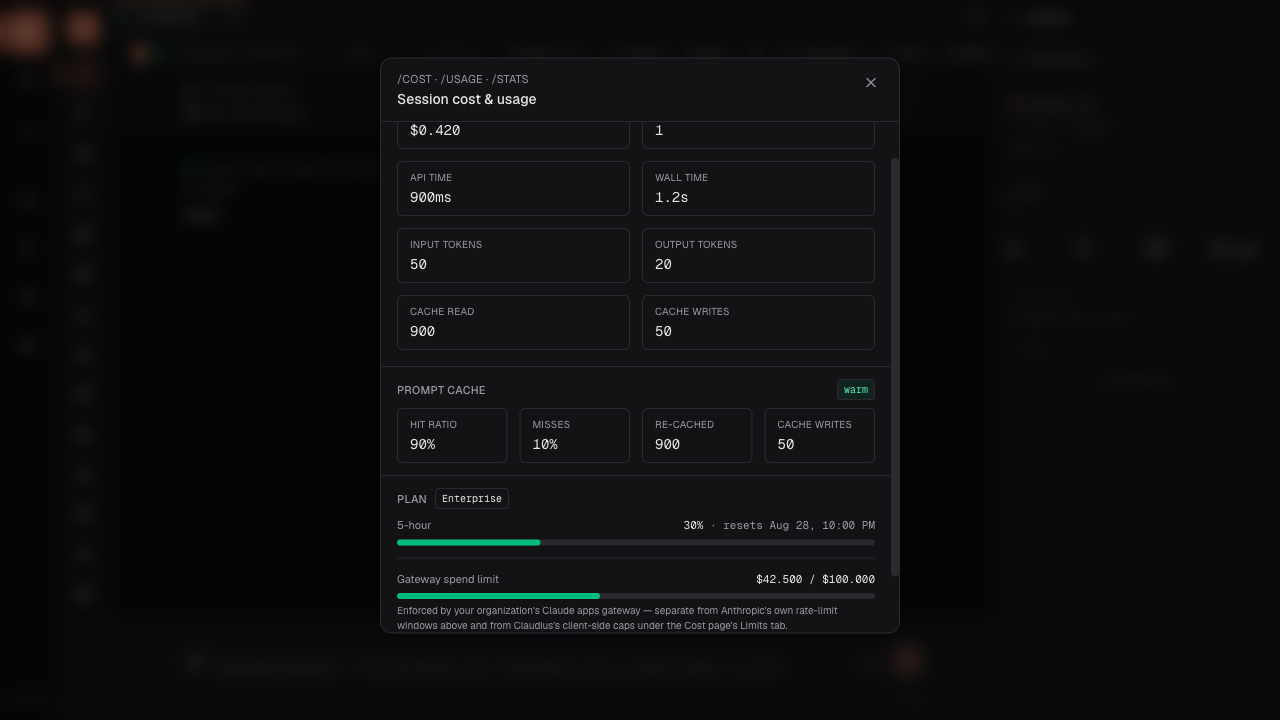
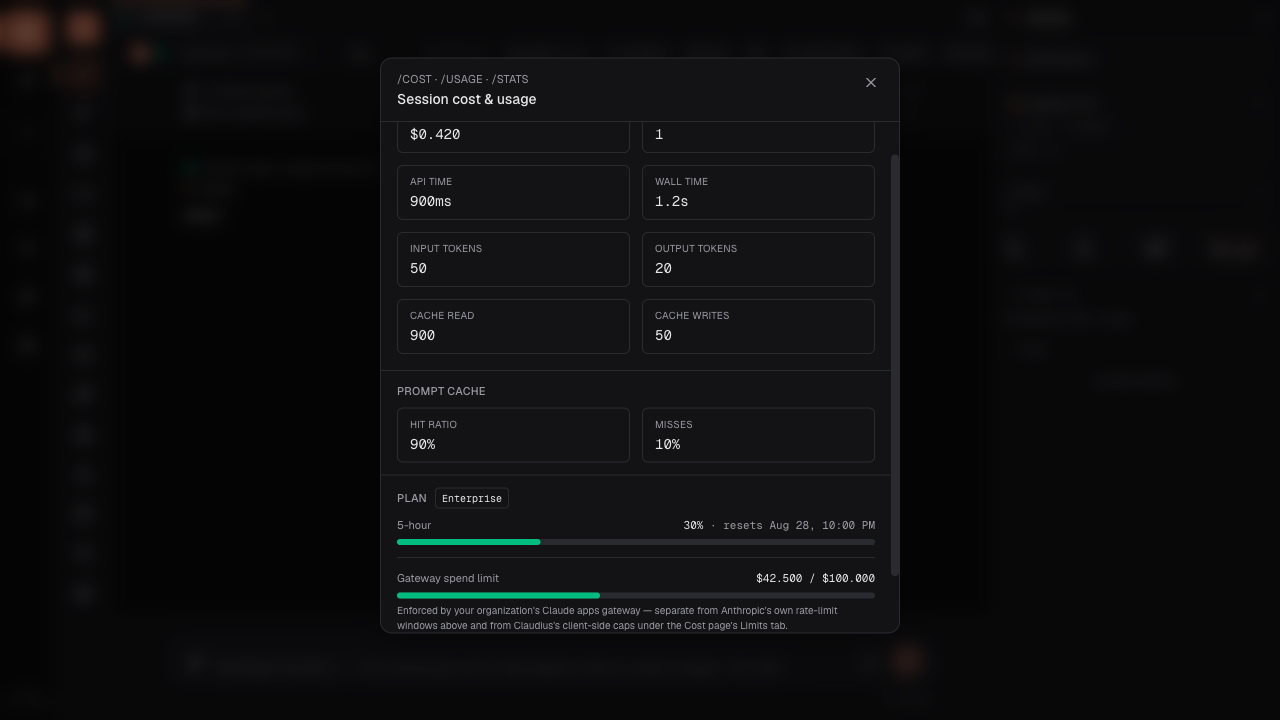
fix(cc-parity): address adversarial UX review of 2.1.251 cost-overlay work
Three fixes from an adversarial UX-fit pass on the prompt-cache line +
gateway spend-limit bar:
- Prompt cache section no longer repeats the raw cache-read/cache-write
  token counts already shown in the stat grid above — only the two
  derived ratios (hit/miss) are new information.
- Dropped the warm/cold badge: derived from session-cumulative totals,
  it would stay pinned to "warm" after one cache hit, reading as live
  status when it isn't. The hit-ratio % already conveys this honestly.
- Hoisted spendLimit to a sibling of rateLimits/modelScoped on
  PlanUsageEvent instead of nesting it inside rateLimits, matching the
  precedent modelScoped already set for "different shape" fields and
  removing the special-case filter that nesting required in CostOverlay.

diff --git a/components/overlays/CostOverlay.tsx b/components/overlays/CostOverlay.tsx
@@ -91,7 +91,7 @@ export function CostOverlay({ usage, model, planUsage, onClose }: Props) {
         cacheCreationInputTokens: usage.cacheCreationInputTokens,
       })
     : null;
-  const spendLimit = planUsage?.rateLimits?.spendLimit ?? null;
+  const spendLimit = planUsage?.spendLimit ?? null;
   const windows =
     planUsage?.rateLimitsAvailable && planUsage.rateLimits
       ? (
@@ -99,11 +99,7 @@ export function CostOverlay({ usage, model, planUsage, onClose }: Props) {
             string,
             { utilization: number | null; resetsAt: string | null } | null | undefined,
           ][]
-          // `spendLimit` shares the rateLimits object but has a different
-          // shape ({limitUsd,usedUsd,currency} rather than {utilization,
-          // resetsAt}) and its own dedicated $ rendering below — exclude it
-          // from the generic percentage-window list.
-        ).filter(([k, v]) => k !== "spendLimit" && v !== null && v !== undefined)
+        ).filter(([, v]) => v !== null && v !== undefined)
       : [];
 
   return (
@@ -119,28 +115,27 @@ export function CostOverlay({ usage, model, planUsage, onClose }: Props) {
         <Stat label="Cache writes" value={usage ? fmtTokens(usage.cacheCreationInputTokens) : "—"} />
       </div>
 
-      {/* CC parity 2.1.251: prompt-cache line ("/cost" hit ratio, misses,
-          tokens re-cached, warm/cold). Derived client-side from the same
-          cache token totals shown above — see lib/shared/prompt-cache.ts
-          for why there's no new server field behind this. */}
+      {/* CC parity 2.1.251: prompt-cache line ("/cost" hit ratio / misses).
+          Derived client-side from the same cache token totals shown in the
+          stat grid above (Cache read / Cache writes) — see
+          lib/shared/prompt-cache.ts for why there's no new server field
+          behind this. Deliberately just the two ratios: the raw token
+          counts ("re-cached" == Cache read, cache-write tokens == Cache
+          writes) already have a home in the grid above, so repeating them
+          here would just be the same numbers twice. Also deliberately no
+          warm/cold badge — with only session-cumulative totals available
+          (no per-turn breakdown), "warm" would mean "hit cache at least
+          once, ever, this session" and stay pinned to true past the first
+          hit, which reads as live status but isn't; the hit-ratio % already
+          conveys the same information honestly. */}
       {promptCache && (
         <div data-testid="prompt-cache-section" className="border-t border-[var(--border)] px-4 py-3">
           <div className="mb-2 flex items-center gap-2">
             <span className="text-[11px] font-medium uppercase tracking-wide text-[var(--muted)]">
               Prompt cache
             </span>
-            <span
-              data-testid="prompt-cache-warm-badge"
-              className={`ml-auto rounded border px-1.5 py-0.5 font-mono text-[10px] ${
-                promptCache.warm
-                  ? "border-emerald-500/40 bg-emerald-500/10 text-emerald-300"
-                  : "border-[var(--border)] bg-[var(--panel)] text-[var(--muted)]"
-              }`}
-            >
-              {promptCache.warm ? "warm" : "cold"}
-            </span>
           </div>
-          <div className="grid grid-cols-2 gap-3 text-[11px] sm:grid-cols-4">
+          <div className="grid grid-cols-2 gap-3 text-[11px]">
             <Stat
               label="Hit ratio"
               value={promptCache.hitRatioPct === null ? "—" : `${Math.round(promptCache.hitRatioPct)}%`}
@@ -149,8 +144,6 @@ export function CostOverlay({ usage, model, planUsage, onClose }: Props) {
               label="Misses"
               value={promptCache.missRatioPct === null ? "—" : `${Math.round(promptCache.missRatioPct)}%`}
             />
-            <Stat label="Re-cached" value={fmtTokens(promptCache.tokensRecached)} />
-            <Stat label="Cache writes" value={fmtTokens(promptCache.cacheWriteTokens)} />
           </div>
         </div>
       )}

diff --git a/tests/e2e/cc-parity-2.1.251-cost-overlay-cache-spend.spec.ts b/tests/e2e/cc-parity-2.1.251-cost-overlay-cache-spend.spec.ts
@@ -2,11 +2,14 @@
  * CC 2.1.251 parity — two additions to the "Session cost & usage" overlay
  * (opened via `/cost` · `/usage` · `/stats`, or the status-line cost tile):
  *
- *  1. "Prompt cache" line — hit ratio, misses, tokens re-cached, warm/cold.
- *     Upstream computes this CLI-side for its `/cost` output; there's no new
- *     server field for it (see lib/shared/prompt-cache.ts doc comment), so
- *     Claudius derives it purely client-side from the same cache-token
- *     totals the overlay already displays (Cache read / Cache writes stats).
+ *  1. "Prompt cache" line — hit ratio + misses, derived purely client-side
+ *     from the same cache-token totals the overlay already displays (Cache
+ *     read / Cache writes stats). Upstream computes this CLI-side for its
+ *     `/cost` output and there's no new server field for it (see
+ *     lib/shared/prompt-cache.ts doc comment). Deliberately just the two
+ *     ratios — no repeated raw token counts, no warm/cold badge (see that
+ *     file's doc comment for why a cumulative-only warm/cold signal would
+ *     be misleading).
  *
  *  2. "Gateway spend limit" bar — a dollar-denominated cap for sessions
  *     behind a Claude apps gateway with an org-configured spend limit
@@ -130,15 +133,19 @@ const RESULT: SdkEvent = {
   },
 };
 
-/** plan_usage event carrying a gateway spend limit alongside the usual windows. */
+/**
+ * plan_usage event carrying a gateway spend limit alongside the usual
+ * windows. `spendLimit` is a sibling of `rateLimits` (like `modelScoped`),
+ * not nested inside it — see PlanUsageEvent.spendLimit in lib/shared/events.ts.
+ */
 const PLAN_USAGE_WITH_SPEND_LIMIT: SdkEvent = {
   type: "plan_usage",
   subscriptionType: "enterprise",
   rateLimitsAvailable: true,
   rateLimits: {
     fiveHour: { utilization: 30, resetsAt: "2026-08-28T20:00:00Z" },
-    spendLimit: { limitUsd: 100, usedUsd: 42.5, utilization: 42.5, currency: "USD" },
   },
+  spendLimit: { limitUsd: 100, usedUsd: 42.5, utilization: 42.5, currency: "USD" },
 };
 
 test.beforeEach(async ({ page }) => {
@@ -146,7 +153,7 @@ test.beforeEach(async ({ page }) => {
 });
 
 test.describe("CostOverlay — prompt cache line + gateway spend limit bar (CC 2.1.251 parity)", () => {
-  test("shows hit ratio / warm badge and the gateway spend limit bar in context", async ({ page }) => {
+  test("shows the prompt-cache hit ratio and the gateway spend limit bar in context", async ({ page }) => {
     await mockChatBackend(page, [...PRELUDE, ASSISTANT, RESULT, PLAN_USAGE_WITH_SPEND_LIMIT]);
     await page.goto("/");
 
@@ -159,10 +166,9 @@ test.describe("CostOverlay — prompt cache line + gateway spend limit bar (CC 2
     // ── Prompt cache line ──────────────────────────────────────────────
     const cacheSection = page.getByTestId("prompt-cache-section");
     await expect(cacheSection).toBeVisible({ timeout: 5_000 });
-    // hit ratio = 900 / (50 + 900 + 50) = 90%
+    // hit ratio = 900 / (50 + 900 + 50) = 90%, misses = 10%
     await expect(cacheSection).toContainText("90%");
-    const warmBadge = page.getByTestId("prompt-cache-warm-badge");
-    await expect(warmBadge).toHaveText("warm");
+    await expect(cacheSection).toContainText("10%");
 
     // ── Gateway spend limit bar ────────────────────────────────────────
     const spendBar = page.getByTestId("spend-limit-bar");

diff --git a/lib/shared/events.ts b/lib/shared/events.ts
@@ -753,25 +753,6 @@ export type PlanUsageEvent = {
     sevenDayOauthApps?: PlanUsageWindow | null;
     sevenDayOpus?: PlanUsageWindow | null;
     sevenDaySonnet?: PlanUsageWindow | null;
-    /**
-     * CC parity 2.1.251: a dollar-denominated cap for sessions running behind
-     * a Claude apps gateway with an org-configured spend limit (distinct from
-     * Anthropic's own percentage rate-limit windows above, and distinct from
-     * Claudius's own client-enforced `LimitsPanel` caps). Optional because,
-     * as of the SDK version this repo currently builds against, the upstream
-     * `usage_EXPERIMENTAL_MAY_CHANGE_DO_NOT_RELY_ON_THIS_API_YET()` response
-     * does not publish a `spend_limit` field yet (checked against the latest
-     * published `@anthropic-ai/claude-agent-sdk` `.d.ts` at review time) — the
-     * field names below are our best-effort guess at the eventual shape,
-     * mirroring the sibling `extra_usage` object's `{limit,used,utilization}`
-     * pattern. Renders only when present; absent is the expected case today.
-     */
-    spendLimit?: {
-      limitUsd: number | null;
-      usedUsd: number | null;
-      utilization: number | null;
-      currency: string | null;
-    } | null;
   } | null;
   /**
    * Per-model weekly windows from the server limits[] array, filtered by the
@@ -780,6 +761,31 @@ export type PlanUsageEvent = {
    * `displayName` (e.g. "Fable") for labeling the usage bar in CostOverlay.
    */
   modelScoped?: Array<{ displayName: string; utilization: number | null; resetsAt: string | null }>;
+  /**
+   * CC parity 2.1.251: a dollar-denominated cap for sessions running behind
+   * a Claude apps gateway with an org-configured spend limit (distinct from
+   * Anthropic's own percentage rate-limit windows in `rateLimits` above, and
+   * distinct from Claudius's own client-enforced `LimitsPanel` caps). A
+   * sibling of `rateLimits`/`modelScoped` rather than nested inside
+   * `rateLimits` — same reason `modelScoped` isn't nested there either: it
+   * doesn't share the `{utilization, resetsAt}` window shape, so keeping it
+   * separate avoids a special-case filter everywhere `rateLimits` is mapped
+   * over as a homogeneous list of windows (see CostOverlay.tsx). Optional
+   * because, as of the SDK version this repo currently builds against, the
+   * upstream `usage_EXPERIMENTAL_MAY_CHANGE_DO_NOT_RELY_ON_THIS_API_YET()`
+   * response does not publish a `spend_limit` field yet (checked against the
+   * latest published `@anthropic-ai/claude-agent-sdk` `.d.ts` at review
+   * time) — the field names below are our best-effort guess at the eventual
+   * shape, mirroring the sibling `extra_usage` object's
+   * `{limit,used,utilization}` pattern. Renders only when present; absent is
+   * the expected case today.
+   */
+  spendLimit?: {
+    limitUsd: number | null;
+    usedUsd: number | null;
+    utilization: number | null;
+    currency: string | null;
+  } | null;
   /**
    * Epoch ms when this event's data was fetched (CC parity 2.1.208 — mirrors
    * the CLI's `/usage` "as of <time>" note shown when the usage endpoint is

diff --git a/lib/server/session.ts b/lib/server/session.ts
@@ -7214,16 +7214,6 @@ export class Session {
                       sevenDaySonnet: rl.seven_day_sonnet
                         ? { utilization: rl.seven_day_sonnet.utilization, resetsAt: rl.seven_day_sonnet.resets_at }
                         : rl.seven_day_sonnet,
-                      ...(spendLimitRaw
-                        ? {
-                            spendLimit: {
-                              limitUsd: spendLimitRaw.limit_usd ?? null,
-                              usedUsd: spendLimitRaw.used_usd ?? null,
-                              utilization: spendLimitRaw.utilization ?? null,
-                              currency: spendLimitRaw.currency ?? null,
-                            },
-                          }
-                        : {}),
                     }
                   : null,
                 // SDK 0.3.190 — per-model weekly windows; additive, only present
@@ -7235,6 +7225,19 @@ export class Session {
                         utilization: ms.utilization,
                         resetsAt: ms.resets_at,
                       })),
+                    }
+                  : {}),
+                // CC parity 2.1.251 — gateway spend limit; a sibling of
+                // `rateLimits`/`modelScoped`, not nested inside `rateLimits`
+                // (see the doc comment on PlanUsageEvent.spendLimit).
+                ...(spendLimitRaw
+                  ? {
+                      spendLimit: {
+                        limitUsd: spendLimitRaw.limit_usd ?? null,
+                        usedUsd: spendLimitRaw.used_usd ?? null,
+                        utilization: spendLimitRaw.utilization ?? null,
+                        currency: spendLimitRaw.currency ?? null,
+                      },
                     }
                   : {}),
                 // CC parity 2.1.208: a fresh successful fetch always implies

diff --git a/lib/client/types.ts b/lib/client/types.ts
@@ -587,19 +587,6 @@ export type PlanRateLimits = {
     sevenDayOauthApps?: PlanUsageWindow | null;
     sevenDayOpus?: PlanUsageWindow | null;
     sevenDaySonnet?: PlanUsageWindow | null;
-    /**
-     * CC parity 2.1.251: dollar-denominated cap from a Claude apps gateway's
-     * org-configured spend limit. See `PlanUsageEvent.rateLimits.spendLimit`
-     * in `lib/shared/events.ts` for the full rationale on why the shape is
-     * inferred rather than confirmed. Absent is the expected case until the
-     * SDK publishes the field.
-     */
-    spendLimit?: {
-      limitUsd: number | null;
-      usedUsd: number | null;
-      utilization: number | null;
-      currency: string | null;
-    } | null;
   } | null;
   /**
    * Per-model weekly windows from the server limits[] array, filtered by the
@@ -608,6 +595,20 @@ export type PlanRateLimits = {
    * "Fable") for labeling the usage bar in CostOverlay.
    */
   modelScoped?: Array<{ displayName: string; utilization: number | null; resetsAt: string | null }>;
+  /**
+   * CC parity 2.1.251: dollar-denominated cap from a Claude apps gateway's
+   * org-configured spend limit. A sibling of `rateLimits`/`modelScoped`
+   * rather than nested inside `rateLimits` — see
+   * `PlanUsageEvent.spendLimit` in `lib/shared/events.ts` for the full
+   * rationale (it doesn't share the `{utilization, resetsAt}` window shape).
+   * Absent is the expected case until the SDK publishes the field.
+   */
+  spendLimit?: {
+    limitUsd: number | null;
+    usedUsd: number | null;
+    utilization: number | null;
+    currency: string | null;
+  } | null;
   /**
    * Epoch ms when this data was fetched. See `PlanUsageEvent.fetchedAt` in
    * `lib/shared/events.ts` for the full rationale (CC parity 2.1.208).

diff --git a/lib/shared/prompt-cache.ts b/lib/shared/prompt-cache.ts
@@ -14,10 +14,18 @@
  * `inputTokens` / `cacheReadInputTokens` / `cacheCreationInputTokens`.
  *
  * CONSERVATIVE READING: these totals are cumulative for the whole session, not
- * per-turn, so "warm/cold" here reflects the session's cumulative cache-read
- * share rather than a true last-turn warm/cold flag (which would need
- * per-turn granularity Claudius doesn't retain). See run-notes Risks for the
- * rejected per-turn alternative.
+ * per-turn, so a cumulative "warm/cold" derived here would reflect "has this
+ * session ever hit cache" rather than a true last-turn warm/cold flag (which
+ * would need per-turn granularity Claudius doesn't retain) — after one cache
+ * hit it would stay pinned to "warm" for the rest of the session, reading as
+ * live status when it isn't. `computePromptCacheStats` still returns `warm`
+ * (and the raw `tokensRecached`/`cacheWriteTokens` split, which is just a
+ * pass-through of the inputs) for completeness and testability, but
+ * `CostOverlay` deliberately renders only `hitRatioPct`/`missRatioPct` — the
+ * raw counts already have a home in the overlay's main stat grid (Cache
+ * read / Cache writes), and the ratios convey the same "how warm is this
+ * session" signal honestly without the misleading badge. See run-notes
+ * Risks for the rejected per-turn alternative.
  */
 
 export type PromptCacheStats = {

diff --git a/lib/client/use-session.ts b/lib/client/use-session.ts
@@ -1900,6 +1900,8 @@ export function useSession(opts?: { defaultCwd?: string | null }): ChatState & C
           rateLimitsAvailable: ev.rateLimitsAvailable,
           rateLimits: ev.rateLimits ?? null,
           ...(ev.modelScoped ? { modelScoped: ev.modelScoped } : {}),
+          // CC parity 2.1.251 — gateway spend limit, sibling of rateLimits.
+          ...(ev.spendLimit ? { spendLimit: ev.spendLimit } : {}),
           fetchedAt: ev.fetchedAt,
           stale: false,
         });
